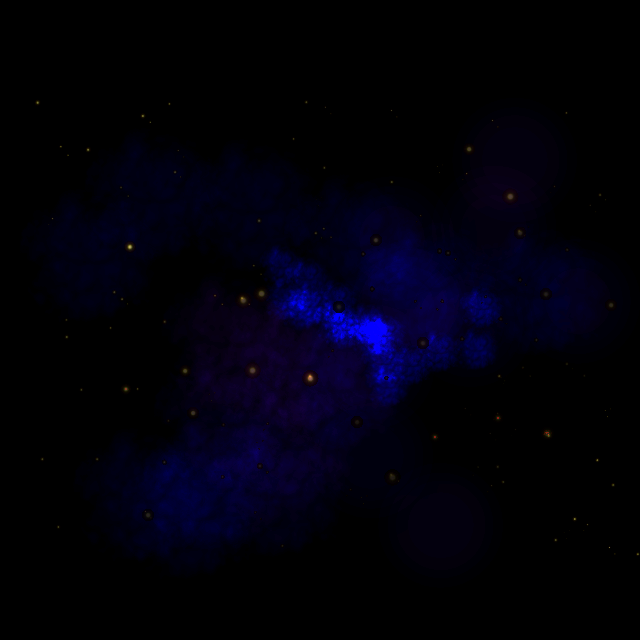
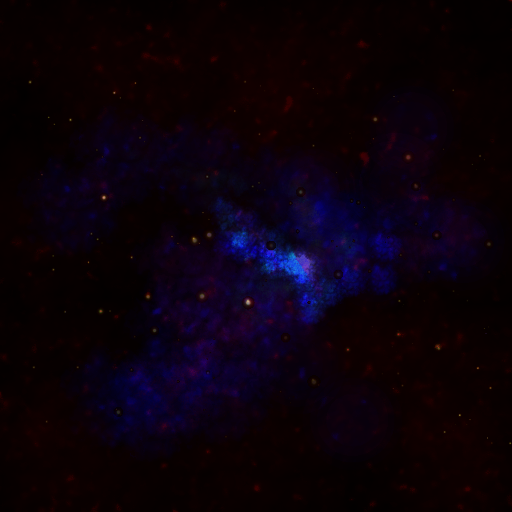
polish

diff --git a/mauris.js b/mauris.js
@@ -336,6 +336,7 @@ enemyShip.prototype.initEnemyShip = function(ship) {
 	this.ship = this.shipList[Math.floor(randomRange(0,this.shipList.length))];
 	this.destroyParts()
 		this.sprite.profile = 250;
+	this.sawDamage=0;
 	this.sprite.profileDecay = 166;
 	this.nextProfileDecay = 0;
 	this.aggroList = [];
@@ -433,6 +434,9 @@ enemyShip.prototype.damage = function(dmg, aggro, bulletVelocity) {
 		this.alive = false;
 		this.died=game.time.now+10000;
 
+		if (this.ai!=3){
+			sparkExplosion(pew, this.sprite);	
+		}
 
 
 		bigBoom(explosions,this.sprite.x,this.sprite.y);
@@ -703,6 +707,8 @@ function preload () {
 	game.load.image('starfield2', 'assets/starfield2.png');
 	game.load.image('starfield3', 'assets/starfield3.png');
 	game.load.image('starfield4', 'assets/starfield4.png');
+	game.load.image('haze', 'assets/haze.png');
+	game.load.image('haze2', 'assets/haze2.png');
 	game.load.spritesheet('sparkles', 'assets/sparkles.png',4,4);
 	game.load.spritesheet('thrust', 'assets/thrust.png',8,8);
 	game.load.spritesheet('sparks', 'assets/sparks.png',8,8);
@@ -749,6 +755,7 @@ playerShip.prototype.initPlayerShip = function (ship) {
 	this.ai=-1; //natural intelligence
 	this.radarTargets=1;
 	this.dropRate=0;
+	this.sawDamage=0;
 	this.radarShowInRange=false;
 	this.radarShowInEnemyRange=false;
 	this.radarOreTargets=4;
@@ -827,6 +834,7 @@ playerShip.prototype.damage = function(dmg, aggro) {
 	}
 
 	if (this.health <= 0){
+		sparkExplosion(pew, this.sprite);	
 		bigBoom(explosions,this.sprite.x,this.sprite.y);
 		this.died=game.time.now+10000;
 		this.alive = false;
@@ -983,7 +991,7 @@ var station; //we're going to keep this pretty much as a non-interactive sprite 
 
 var lootDropRate = 0.09;
 var componentDropRate = 0.09;
-var backdrop1, backdrop2,backdrop3,backdrop4,backdrop5;
+var backdrop1, backdrop2,backdrop3,backdrop4,hazeWhite,hazeRed,hazePurple;
 var foredrop;
 var numBaddies = 9;
 var numAsteroids = 19;
@@ -1585,8 +1593,9 @@ function create () {
 		backdrop1 = game.add.tileSprite(0, 0, resolutionX, resolutionY, 'starfield2');
 
 		backdrop1.fixedToCamera = true;
-		backdrop1.scale.x=4;
+		backdrop1.scale.x=4;	
 		backdrop1.scale.y=4;	
+		backdrop1.alpha=0.8;
 		backdrop1.offsetx = Math.random()*resolutionX;
 		backdrop1.offsety = Math.random()*resolutionY;
 		backdrop2 = game.add.tileSprite(0, 0, resolutionX, resolutionY, 'starfield3');
@@ -1597,14 +1606,14 @@ function create () {
 		backdrop2.offsetx = Math.random()*resolutionX;
 		backdrop2.offsety = Math.random()*resolutionY;
 	
-		backdrop5 = game.add.tileSprite(0, 0, resolutionX * 1.2, resolutionY * 1.2, 'starfield3');
-		backdrop5.fixedToCamera = true;
-		backdrop5.scale.x=4;
-		backdrop5.scale.y=4;
-		backdrop5.alpha=1;
-		backdrop5.offsetx = Math.random()*resolutionX;
-		backdrop5.offsety = Math.random()*resolutionY;
-
+		hazeWhite = game.add.tileSprite(0, 0, resolutionX * 1.2, resolutionY * 1.2, 'starfield3');
+		hazeWhite.fixedToCamera = true;
+		hazeWhite.scale.x=4;
+		hazeWhite.scale.y=4;
+		hazeWhite.alpha=0.5; //random()
+		hazeWhite.offsetx = Math.random()*resolutionX;
+		hazeWhite.offsety = Math.random()*resolutionY;
+		hazeWhite.speed = 70;
 		backdrop3 = game.add.tileSprite(0, 0, resolutionX, resolutionY, 'starfield4');
 		backdrop3.fixedToCamera = true;
 		backdrop3.offsetx = Math.random()*resolutionX;
@@ -1617,6 +1626,23 @@ function create () {
 		backdrop4.scale.x=0.75;
 		backdrop4.scale.y=0.75;
 		backdrop4.alpha=0.4;
+		hazeRed = game.add.tileSprite(0, 0, resolutionX, resolutionY, 'haze');
+		hazeRed.offsetx = Math.random()*resolutionX;
+		hazeRed.offsety = Math.random()*resolutionY;
+		hazeRed.fixedToCamera = true;
+		hazeRed.scale.x=3;
+		hazeRed.scale.y=3;
+		hazeRed.alpha=0.7; //randomRange(0,0.8)-0.2;
+		hazeRed.speed = 160;
+		hazePurple = game.add.tileSprite(0, 0, resolutionX, resolutionY, 'haze2');
+		hazePurple.offsetx = Math.random()*resolutionX;
+		hazePurple.offsety = Math.random()*resolutionY;
+		hazePurple.fixedToCamera = true;
+		hazePurple.scale.x=3;
+		hazePurple.scale.y=3;
+		hazePurple.alpha=0; //randomRange(0,0.6)-0.2;
+		hazePurple.speed=160;
+
 		station = game.add.sprite(0,0,'station');
 		station.anchor.setTo(0.5,0.5)
 			asteroids.sort(lengthSort);
@@ -1651,7 +1677,7 @@ function create () {
 		explosions.setAll('anchor.x', 0.5);
 		explosions.setAll('anchor.y', 0.5);
 		explosions.setAll('lifespan',5000);
-
+		explosions.setAll('blendMode',1);
 
 		enemies = [];
 
@@ -1777,7 +1803,9 @@ function handleMission() {
 function winMission(){
 
 	if(playerStats.mission.complete){
-	var n = Math.floor(randomRange(0,playerStats.mission.next.length));
+	playerStats.inventory.push(playerStats.mission.componentsReward[Math.floor(randomRange(0,playerStats.mission.componentsReward.length))]);
+	ui.texts.push('got ' + components[playerStats.inventory[playerStats.inventory.length-1]].name); //heinous
+		var n = Math.floor(randomRange(0,playerStats.mission.next.length));
 	initMission(playerStats.mission.next[n]);
 	playerStats.mission.complete=false;
 	playerStats.kills=0;
@@ -1834,7 +1862,7 @@ function update () {
 			if (enemies[i].alive){
 				enemies[i].update();
 				for (var j = 0; j < player.parts.length; j++) {
-					game.physics.overlap(enemies[i].sprite, player.parts[j].sprite);
+					game.physics.overlap(enemies[i].sprite, player.parts[j].sprite, enemyTouchPlayer, null, this);
 				}
 				game.physics.overlap(bullets, enemies[i].sprite, bulletHitEnemy, null, this);
 				for (var j = 0; j < enemies[i].parts.length; j++) {
@@ -1881,16 +1909,21 @@ function update () {
 
 	}	
 		// scrolling
-		backdrop1.tilePosition.x = backdrop1.offsetx + ( -0.11*game.camera.x / backdrop1.scale.x) + (game.time.now / (100));
+		backdrop1.tilePosition.x = backdrop1.offsetx + ( -0.11*game.camera.x / backdrop1.scale.x) + (game.time.now / (4000));
 		backdrop1.tilePosition.y = backdrop1.offsety + ( -0.11*game.camera.y / backdrop1.scale.y);
-		backdrop2.tilePosition.x = backdrop2.offsetx + ( -0.22*game.camera.x / backdrop2.scale.x) + (game.time.now / (40));
+		backdrop2.tilePosition.x = backdrop2.offsetx + ( -0.22*game.camera.x / backdrop2.scale.x) + (game.time.now / (80));
 		backdrop2.tilePosition.y = backdrop2.offsety + ( -0.22*game.camera.y / backdrop2.scale.y);
-		backdrop5.tilePosition.x = backdrop5.offsetx + ( -0.26*game.camera.x / backdrop5.scale.x) + (game.time.now / (70));
-		backdrop5.tilePosition.y = backdrop5.offsety + ( -0.26*game.camera.y / backdrop5.scale.y);
+		hazeWhite.tilePosition.x = hazeWhite.offsetx + ( -0.26*game.camera.x / hazeWhite.scale.x) + (game.time.now / (hazeWhite.speed));
+		hazeWhite.tilePosition.y = hazeWhite.offsety + ( -0.26*game.camera.y / hazeWhite.scale.y);
 		backdrop3.tilePosition.x = backdrop3.offsetx + ( -0.30*game.camera.x / backdrop3.scale.x) + (game.time.now / (60));
 		backdrop3.tilePosition.y = backdrop3.offsety + ( -0.30*game.camera.y / backdrop3.scale.y);
 		backdrop4.tilePosition.x = backdrop4.offsetx + ( -0.5*game.camera.x / backdrop4.scale.x) + (game.time.now / (40));
 		backdrop4.tilePosition.y = backdrop4.offsety + ( -0.5*game.camera.y / backdrop4.scale.y);
+		hazeRed.tilePosition.x = hazeRed.offsetx + ( -0.5*game.camera.x / hazeRed.scale.x) + (game.time.now / (hazeRed.speed));
+		hazeRed.tilePosition.y = hazeRed.offsety + ( -0.5*game.camera.y / hazeRed.scale.y);
+		hazePurple.tilePosition.x = hazePurple.offsetx + ( -1.5*game.camera.x / hazePurple.scale.x) + (game.time.now / (hazePurple.speed));
+		hazePurple.tilePosition.y = hazePurple.offsety + ( -1.5*game.camera.y / hazePurple.scale.y);
+		hazePurple.bringToTop();	
 
 		ui.update();
 	if (gamemode == '?build' && !game.input.activePointer.isDown) {
@@ -1953,12 +1986,13 @@ function bigBoom(explosionsGroup, x, y){
 		for(var i=0; i < 5 + (r * 6) ; i ++) { 
 			if(explosions.countDead()){
 				var explosion = explosionsGroup.getFirstDead();
-				explosion.loadTexture('explosions', Math.random()>0.7 ? 1 : 2);
+				var rand2 = Math.random()>0.7 ? 1 : 2;
+				explosion.loadTexture('explosions', rand2);
 				explosion.reset(x+randomRange(-20,20),y+randomRange(-20,20));
 				explosion.rotation = Math.random()*Math.PI;
 				explosion.angularVelocity=randomRange(-150,150);
-				explosion.fireVelocity=randomRange(30,80);
-				explosion.lifespan=700;
+				explosion.fireVelocity=randomRange(30,80) * (2-rand2);
+				explosion.lifespan=700 * rand2;
 				explosion.linearDamping=-1;
 				r=randomRange(0.4,1.9);
 				explosion.scale.setTo(r,r);
@@ -2090,10 +2124,18 @@ function bulletHitPlayer (sprite, bullet) {
 	}
 
 	var destroyed = player.damage(bullet.damage, bullet.owner);
-	if (destroyed){
-		sparkExplosion(pew, sprite);	
-	}
 	bullet.kill();
+}
+
+function enemyTouchPlayer (enemySprite, playerSprite) {
+	if(player.sawDamage && enemies[enemySprite.name].ai==3)
+	{
+		enemies[enemySprite.name].damage(player.sawDamage);
+	
+		var angle=game.physics.angleBetween(playerSprite,enemySprite);
+		enemySprite.body.velocity.x+=Math.cos(angle)*200;
+		enemySprite.body.velocity.y+=Math.sin(angle)*200;
+	}	
 }
 
 function bulletHitEnemy (sprite, bullet) {
@@ -2105,9 +2147,6 @@ function bulletHitEnemy (sprite, bullet) {
 			bullet.bulletHitBehavior[i](sprite, bullet);
 		}
 		var destroyed = enemies[sprite.name].damage(bullet.damage, bullet.owner, bullet.body.velocity);
-		if (destroyed && enemies[sprite.name].ai!=3){
-			sparkExplosion(pew, sprite);	
-		}
 
 		bullet.kill();
 	}

diff --git a/components.js b/components.js
@@ -1429,10 +1429,13 @@ var cmp = [
 	'id':115,
 	'drops':true,
 	'name':'Jagged Armor Plating',
-	'flavor':'--',
+	'flavor':'heavy armor, crash into debris to destroy it',
 	'bonus':function(target){
-
-		target.TODO=1;
+		target.sawDamage+=12;
+		target.health+=5;
+		target.acceleration-=0.1;
+		target.turnRate-=0.3;
+		
 	}
 },
 {
